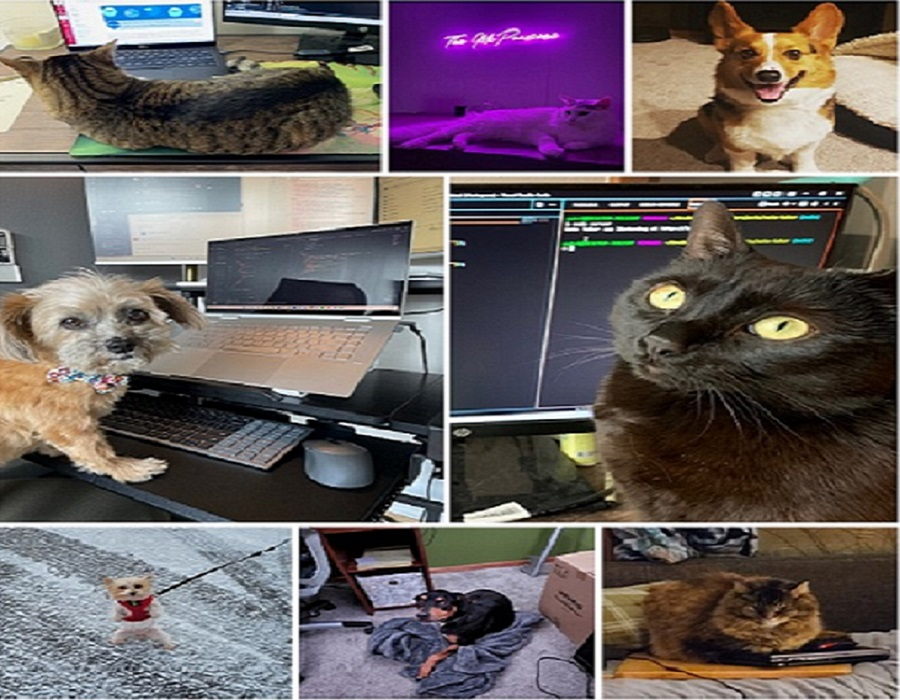
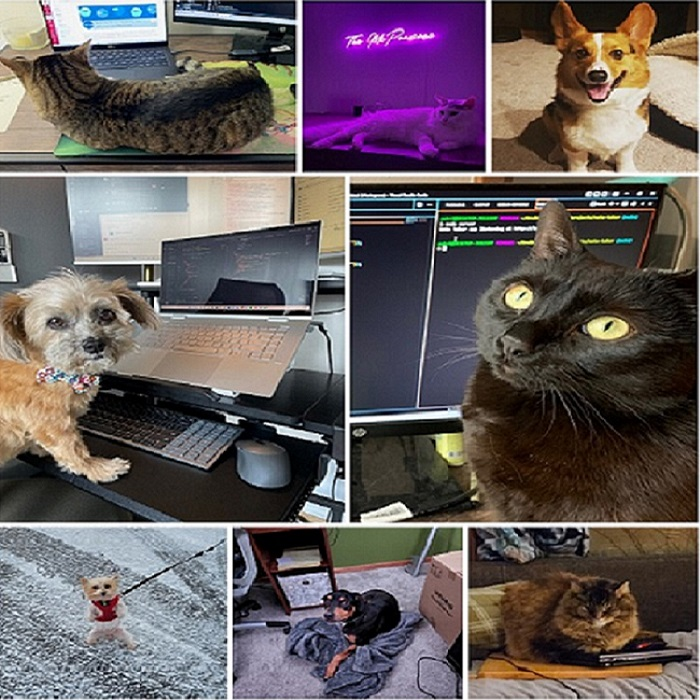
size adjustment

diff --git a/client/src/pages/collage.js b/client/src/pages/collage.js
@@ -5,7 +5,7 @@ import pets from "./images/pet-collage.JPG"
 const ClassCollage = () => {
  
     return (
-      <div style={{ backgroundImage: `url(${collage})`, backgroundRepeat:"no-repeat", backgroundPosition:"center", backgroundSize:"cover", width: 900, height: 700}}>
+      <div style={{ backgroundImage: `url(${collage})`, backgroundRepeat:"no-repeat", backgroundPosition:"center", backgroundSize:"cover", width: 700, height: 700}}>
       </div>
     );
   };
@@ -13,7 +13,7 @@ const ClassCollage = () => {
   const PetCollage = () => {
  
     return (
-      <div style={{ backgroundImage: `url(${pets})`, backgroundRepeat:"no-repeat", backgroundPosition:"center", backgroundSize:"fit", width: 900, height: 700}}>
+      <div style={{ backgroundImage: `url(${pets})`, backgroundRepeat:"no-repeat", backgroundPosition:"center", backgroundSize:"fit", width: 700, height: 700}}>
       </div>
     );
   };

diff --git a/client/src/pages/cover.js b/client/src/pages/cover.js
@@ -2,7 +2,7 @@ import pic from "./images/cover.png";
 
 function FrontCover() {
   return (
-    <div className="page-cover" style={{backgroundImage: `url(${pic})`, backgroundRepeat:"no-repeat", backgroundPosition:"center", backgroundSize:"cover", width: 850, height: 700}}>
+    <div className="page-cover" style={{backgroundImage: `url(${pic})`, backgroundRepeat:"no-repeat", backgroundPosition:"center", backgroundSize:"cover", width: 650, height: 700}}>
       <div className="coverContent">
       </div>
     </div>

diff --git a/client/src/pages/studentPage.js b/client/src/pages/studentPage.js
@@ -42,7 +42,7 @@ const Page = React.forwardRef((props, ref) => {
 
 function StudentPage(props) {
   return (
-    <HTMLFlipBook width={900} height={700} className="demo-block">
+    <HTMLFlipBook width={700} height={700} className="demo-block">
       <PageCover>
         <FrontCover />
       </PageCover>
